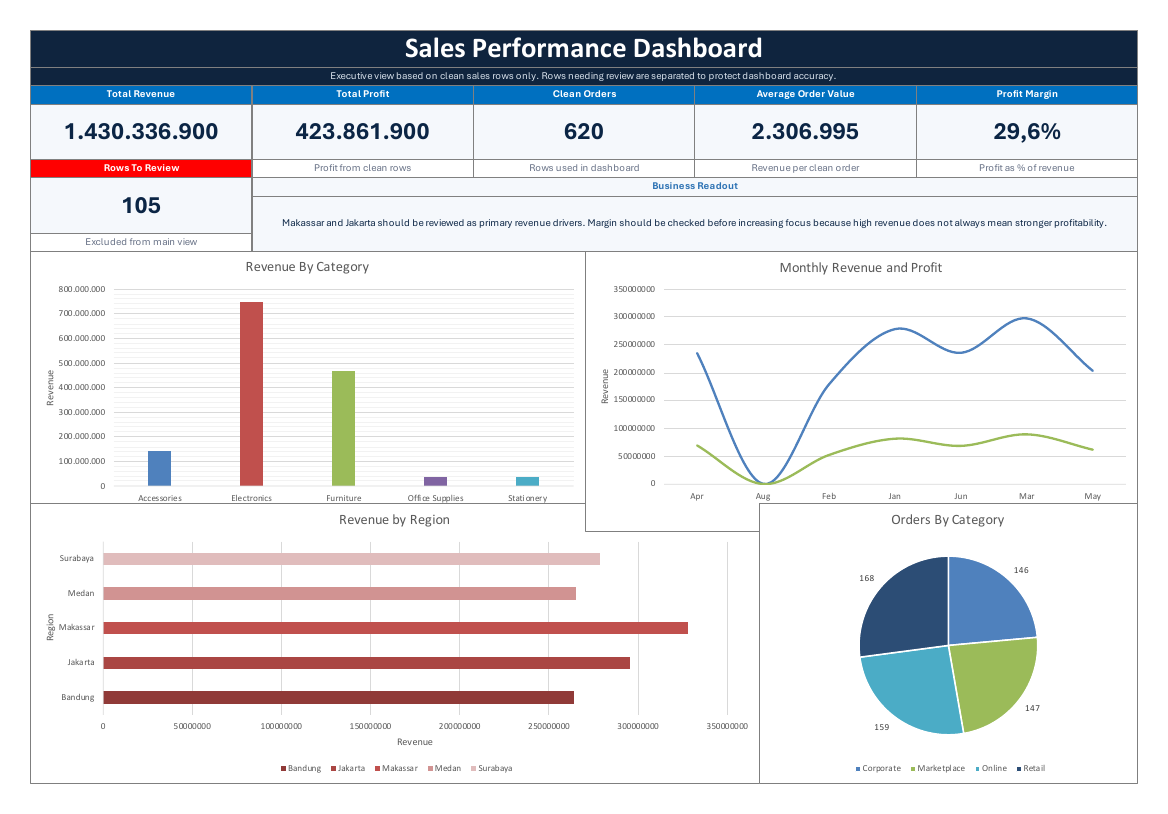
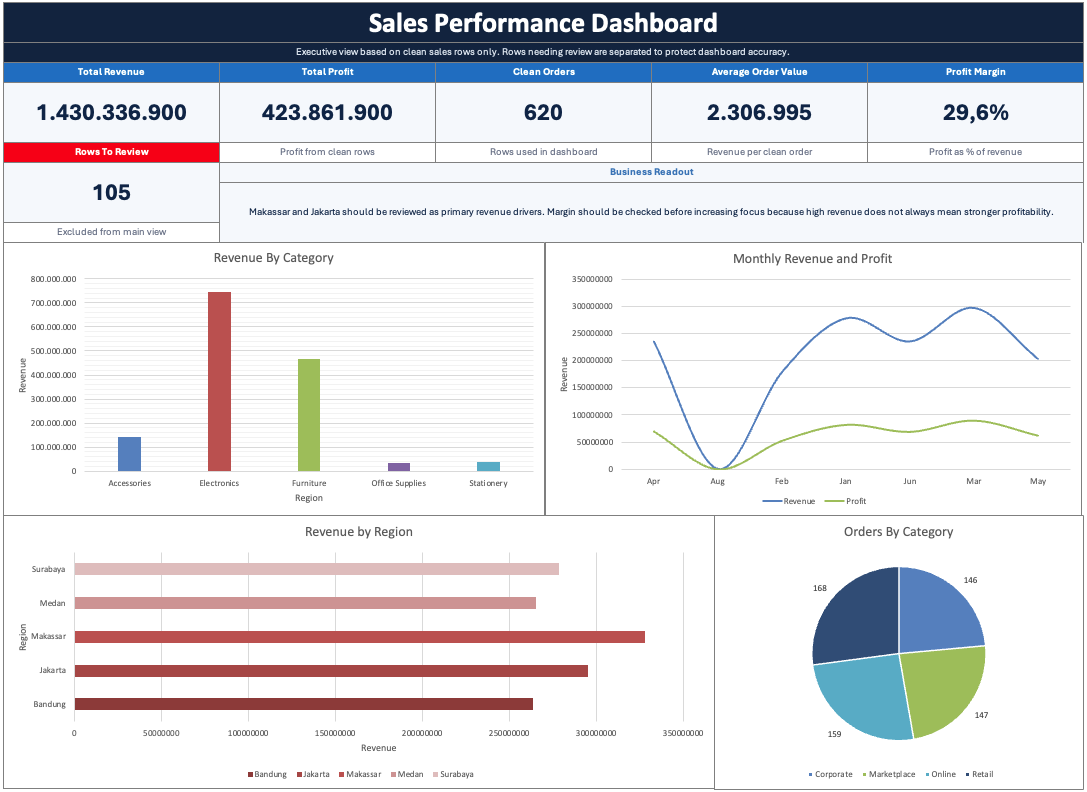
Update dashboard preview screenshot

diff --git a/README.md b/README.md
@@ -41,7 +41,7 @@ The dataset includes intentional data quality issues such as inconsistent text f
 
 ## Dashboard Preview
 
-![Dashboard Preview](images/dashboard-preview.png?raw=true&v=2)
+![Dashboard Preview](images/dashboard-preview.png?raw=true&v=3)
 
 ## Files
 